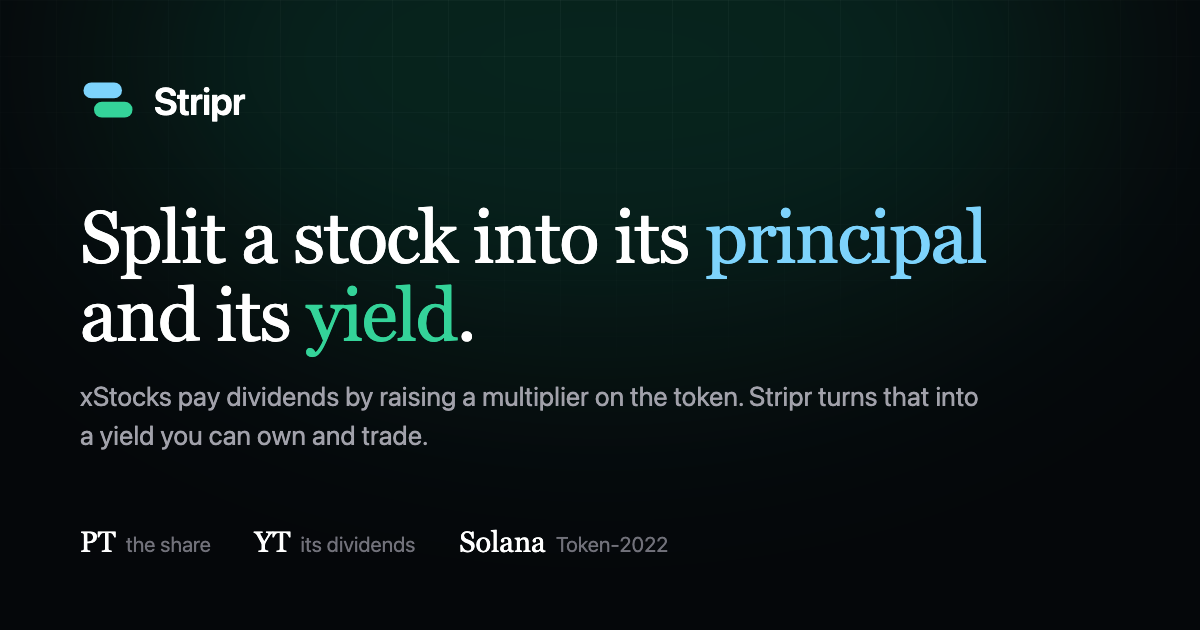
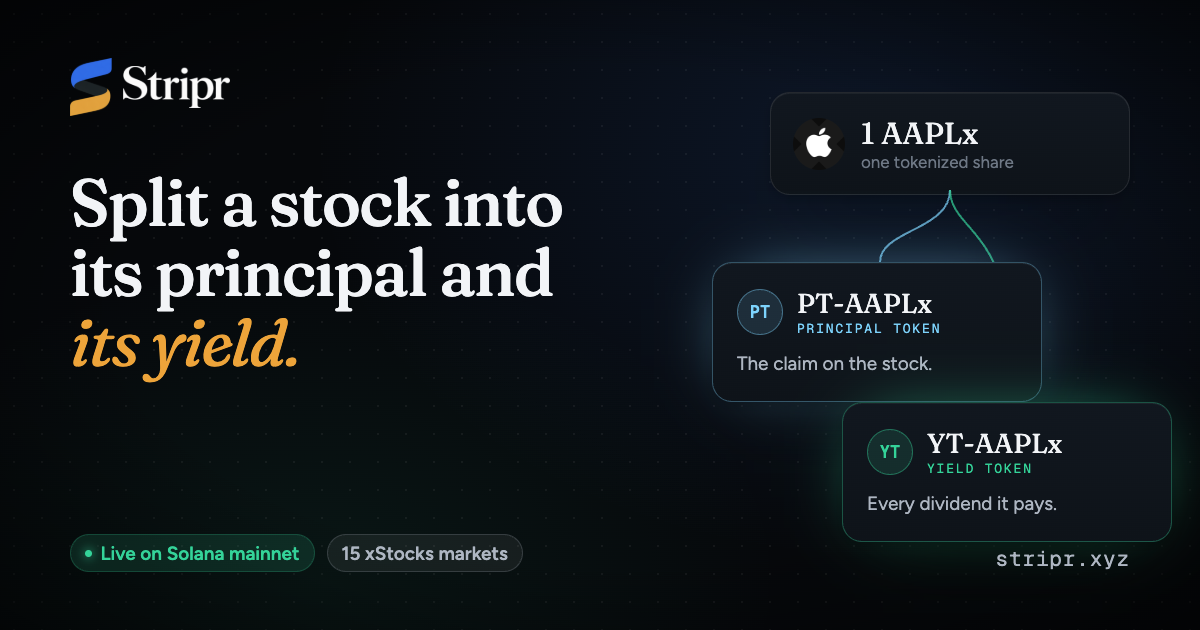
fix(app): make shared links unfurl with the real preview card
Links to stripr.xyz were unfurling with no picture. The share card
resolved against VERCEL_URL, the per-deployment address, and that
address answers crawlers with a redirect to Vercel's login rather
than the image. Production now resolves against stripr.xyz.

The card itself is new: the old one still carried the placeholder
mark. It is rendered from the same Remotion design system as the demo
film (npm run og), so the site, the film and the card match, and it
ships with alt text for both Open Graph and X.

diff --git a/demo/remotion/src/OG.tsx b/demo/remotion/src/OG.tsx
@@ -1,0 +1,58 @@
+import React from 'react'
+import { AbsoluteFill } from 'remotion'
+import { Backdrop, Chip, FAINT, Headline, Lockup, MONO, PT, PT_TINT, SANS, SERIF, SOFT, TEXT, TokenLogo, YT, YT_TINT, cardStyle } from './ui'
+
+/**
+ * The social preview (1200x630): what unfurls when stripr.xyz is shared. Rendered as a
+ * still from the same design system as the film, so the two never drift apart.
+ */
+const Token: React.FC<{ tone: 'pt' | 'yt'; name: string; line: string; x: number; y: number }> = ({ tone, name, line, x, y }) => {
+  const c = tone === 'pt' ? PT : YT
+  return (
+    <div style={{ position: 'absolute', left: x, top: y, width: 330, ...cardStyle, padding: 24, borderColor: `${c}55`, boxShadow: `${cardStyle.boxShadow}, 0 0 70px -30px ${c}` }}>
+      <div style={{ display: 'flex', alignItems: 'center', gap: 14 }}>
+        <span style={{ width: 46, height: 46, borderRadius: 99, background: tone === 'pt' ? PT_TINT : YT_TINT, border: `1.5px solid ${c}66`, display: 'grid', placeItems: 'center', fontFamily: MONO, fontWeight: 600, fontSize: 17, color: c }}>
+          {tone.toUpperCase()}
+        </span>
+        <div>
+          <div style={{ fontFamily: SERIF, fontSize: 27, color: TEXT }}>{tone.toUpperCase()}-AAPLx</div>
+          <div style={{ fontFamily: MONO, fontSize: 13, letterSpacing: '0.14em', textTransform: 'uppercase', color: c }}>{name}</div>
+        </div>
+      </div>
+      <div style={{ height: 14 }} />
+      <div style={{ fontFamily: SANS, fontSize: 19, color: SOFT, lineHeight: 1.35 }}>{line}</div>
+    </div>
+  )
+}
+
+export const OG: React.FC = () => (
+  <AbsoluteFill>
+    <Backdrop glow="right" />
+    <div style={{ position: 'absolute', left: 70, top: 58 }}>
+      <Lockup height={58} delay={-60} />
+    </div>
+    <div style={{ position: 'absolute', left: 70, top: 168, width: 640 }}>
+      <Headline lines={['Split a stock into', 'its principal and', { em: 'its yield.' }]} delay={-60} size={66} />
+    </div>
+    <div style={{ position: 'absolute', left: 70, bottom: 58, display: 'flex', gap: 12 }}>
+      <Chip tone="yt" dot delay={-60} size={19}>Live on Solana mainnet</Chip>
+      <Chip tone="plain" delay={-60} size={19}>15 xStocks markets</Chip>
+    </div>
+
+    {/* The share, and the two tokens it becomes. */}
+    <div style={{ position: 'absolute', left: 770, top: 92, width: 360, ...cardStyle, padding: 22, display: 'flex', alignItems: 'center', gap: 16 }}>
+      <TokenLogo sym="AAPLx" size={52} />
+      <div>
+        <div style={{ fontFamily: SERIF, fontSize: 30, color: TEXT }}>1 AAPLx</div>
+        <div style={{ fontFamily: SANS, fontSize: 17, color: FAINT }}>one tokenized share</div>
+      </div>
+    </div>
+    <svg width={1200} height={630} style={{ position: 'absolute', left: 0, top: 0 }}>
+      <path d="M 950 190 C 950 230, 880 230, 880 262" fill="none" stroke={PT} strokeWidth={2} opacity={0.7} />
+      <path d="M 950 190 C 950 230, 1010 230, 1010 350" fill="none" stroke={YT} strokeWidth={2} opacity={0.7} />
+    </svg>
+    <Token tone="pt" name="Principal token" line="The claim on the stock." x={712} y={262} />
+    <Token tone="yt" name="Yield token" line="Every dividend it pays." x={842} y={402} />
+    <div style={{ position: 'absolute', right: 70, bottom: 58, fontFamily: MONO, fontSize: 21, color: SOFT, letterSpacing: '0.04em' }}>stripr.xyz</div>
+  </AbsoluteFill>
+)

diff --git a/app/src/app/layout.tsx b/app/src/app/layout.tsx
@@ -20,9 +20,16 @@ const geistMono = localFont({
   weight: "100 900",
 });
 
+// Production resolves the share card against the real domain. VERCEL_URL is the
+// per-deployment address, which sits behind Vercel's login, so crawlers following
+// it get a redirect instead of the image and the link unfurls with no picture.
 const siteUrl =
   process.env.NEXT_PUBLIC_SITE_URL ??
-  (process.env.VERCEL_URL ? `https://${process.env.VERCEL_URL}` : "http://localhost:3000");
+  (process.env.VERCEL_ENV === "production"
+    ? "https://stripr.xyz"
+    : process.env.VERCEL_URL
+      ? `https://${process.env.VERCEL_URL}`
+      : "http://localhost:3000");
 
 export const metadata: Metadata = {
   // Absolute URLs for the share card.

diff --git a/demo/remotion/src/Root.tsx b/demo/remotion/src/Root.tsx
@@ -1,7 +1,12 @@
 import React from 'react'
 import { Composition } from 'remotion'
+import { OG } from './OG'
 import { FPS, STRIPR_DURATION, Stripr } from './Stripr'
 
 export const RemotionRoot: React.FC = () => (
-  <Composition id="Stripr" component={Stripr} durationInFrames={STRIPR_DURATION} fps={FPS} width={1920} height={1080} />
+  <>
+    <Composition id="Stripr" component={Stripr} durationInFrames={STRIPR_DURATION} fps={FPS} width={1920} height={1080} />
+    {/* The social preview: a still, rendered with `npm run og`. */}
+    <Composition id="OG" component={OG} durationInFrames={1} fps={FPS} width={1200} height={630} />
+  </>
 )
